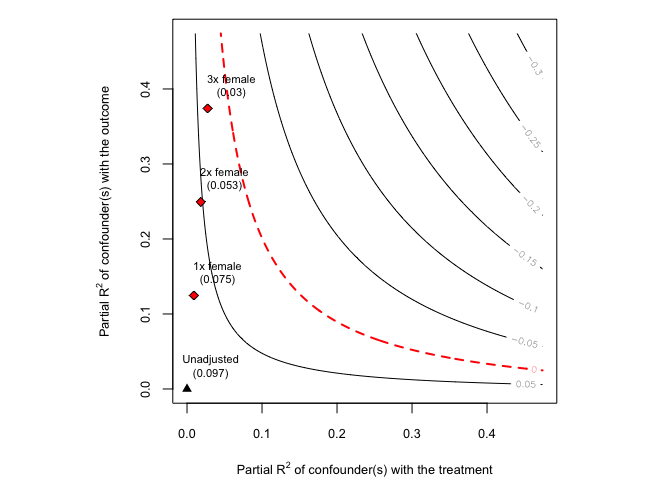
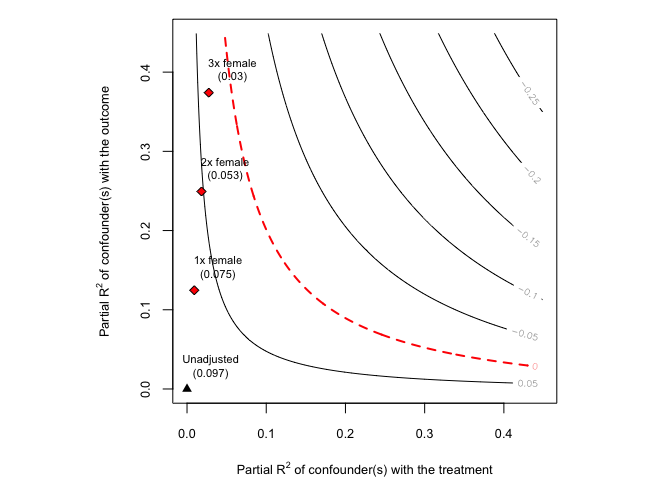
- relative adjustment of limits

diff --git a/docs/reference/ovb_contour_plot.html b/docs/reference/ovb_contour_plot.html
@@ -156,7 +156,7 @@ and the covariates used for benchmarking the strength of unobserved confounding.
   <span class='kw'>reduce</span> <span class='kw'>=</span> <span class='fl'>TRUE</span>,
   <span class='kw'>estimate.threshold</span> <span class='kw'>=</span> <span class='fl'>0</span>,
   <span class='kw'>t.threshold</span> <span class='kw'>=</span> <span class='fl'>2</span>,
-  <span class='kw'>lim</span> <span class='kw'>=</span> <span class='fu'><a href='https://rdrr.io/r/base/Extremes.html'>max</a></span>(<span class='fu'><a href='https://rdrr.io/r/base/c.html'>c</a></span>(<span class='fl'>0.4</span>, <span class='no'>r2dz.x</span>, <span class='no'>r2yz.dx</span>)),
+  <span class='kw'>lim</span> <span class='kw'>=</span> <span class='fu'><a href='https://rdrr.io/r/base/Extremes.html'>max</a></span>(<span class='fu'><a href='https://rdrr.io/r/base/c.html'>c</a></span>(<span class='fl'>0.4</span>, <span class='no'>r2dz.x</span> * <span class='fl'>1.2</span>, <span class='no'>r2yz.dx</span> * <span class='fl'>1.2</span>)),
   <span class='kw'>lim.y</span> <span class='kw'>=</span> <span class='no'>lim</span>,
   <span class='kw'>nlevels</span> <span class='kw'>=</span> <span class='fl'>10</span>,
   <span class='kw'>col.contour</span> <span class='kw'>=</span> <span class='st'>"grey40"</span>,
@@ -184,7 +184,7 @@ and the covariates used for benchmarking the strength of unobserved confounding.
   <span class='kw'>reduce</span> <span class='kw'>=</span> <span class='fl'>TRUE</span>,
   <span class='kw'>estimate.threshold</span> <span class='kw'>=</span> <span class='fl'>0</span>,
   <span class='kw'>t.threshold</span> <span class='kw'>=</span> <span class='fl'>2</span>,
-  <span class='kw'>lim</span> <span class='kw'>=</span> <span class='fu'><a href='https://rdrr.io/r/base/Extremes.html'>max</a></span>(<span class='fu'><a href='https://rdrr.io/r/base/c.html'>c</a></span>(<span class='fl'>0.4</span>, <span class='no'>r2dz.x</span> + <span class='fl'>0.1</span>, <span class='no'>r2yz.dx</span> + <span class='fl'>0.1</span>)),
+  <span class='kw'>lim</span> <span class='kw'>=</span> <span class='fu'><a href='https://rdrr.io/r/base/Extremes.html'>max</a></span>(<span class='fu'><a href='https://rdrr.io/r/base/c.html'>c</a></span>(<span class='fl'>0.4</span>, <span class='no'>r2dz.x</span> * <span class='fl'>1.2</span>, <span class='no'>r2yz.dx</span> * <span class='fl'>1.2</span>)),
   <span class='kw'>lim.y</span> <span class='kw'>=</span> <span class='no'>lim</span>,
   <span class='kw'>nlevels</span> <span class='kw'>=</span> <span class='fl'>10</span>,
   <span class='kw'>col.contour</span> <span class='kw'>=</span> <span class='st'>"grey40"</span>,
@@ -207,7 +207,7 @@ and the covariates used for benchmarking the strength of unobserved confounding.
   <span class='kw'>reduce</span> <span class='kw'>=</span> <span class='fl'>TRUE</span>,
   <span class='kw'>estimate.threshold</span> <span class='kw'>=</span> <span class='fl'>0</span>,
   <span class='kw'>t.threshold</span> <span class='kw'>=</span> <span class='fl'>2</span>,
-  <span class='kw'>lim</span> <span class='kw'>=</span> <span class='fu'><a href='https://rdrr.io/r/base/Extremes.html'>max</a></span>(<span class='fu'><a href='https://rdrr.io/r/base/c.html'>c</a></span>(<span class='fl'>0.4</span>, <span class='no'>r2dz.x</span> + <span class='fl'>0.1</span>, <span class='no'>r2yz.dx</span> + <span class='fl'>0.1</span>)),
+  <span class='kw'>lim</span> <span class='kw'>=</span> <span class='fu'><a href='https://rdrr.io/r/base/Extremes.html'>max</a></span>(<span class='fu'><a href='https://rdrr.io/r/base/c.html'>c</a></span>(<span class='fl'>0.4</span>, <span class='no'>r2dz.x</span> * <span class='fl'>1.2</span>, <span class='no'>r2yz.dx</span> * <span class='fl'>1.2</span>)),
   <span class='kw'>lim.y</span> <span class='kw'>=</span> <span class='no'>lim</span>,
   <span class='kw'>nlevels</span> <span class='kw'>=</span> <span class='fl'>10</span>,
   <span class='kw'>col.contour</span> <span class='kw'>=</span> <span class='st'>"black"</span>,
